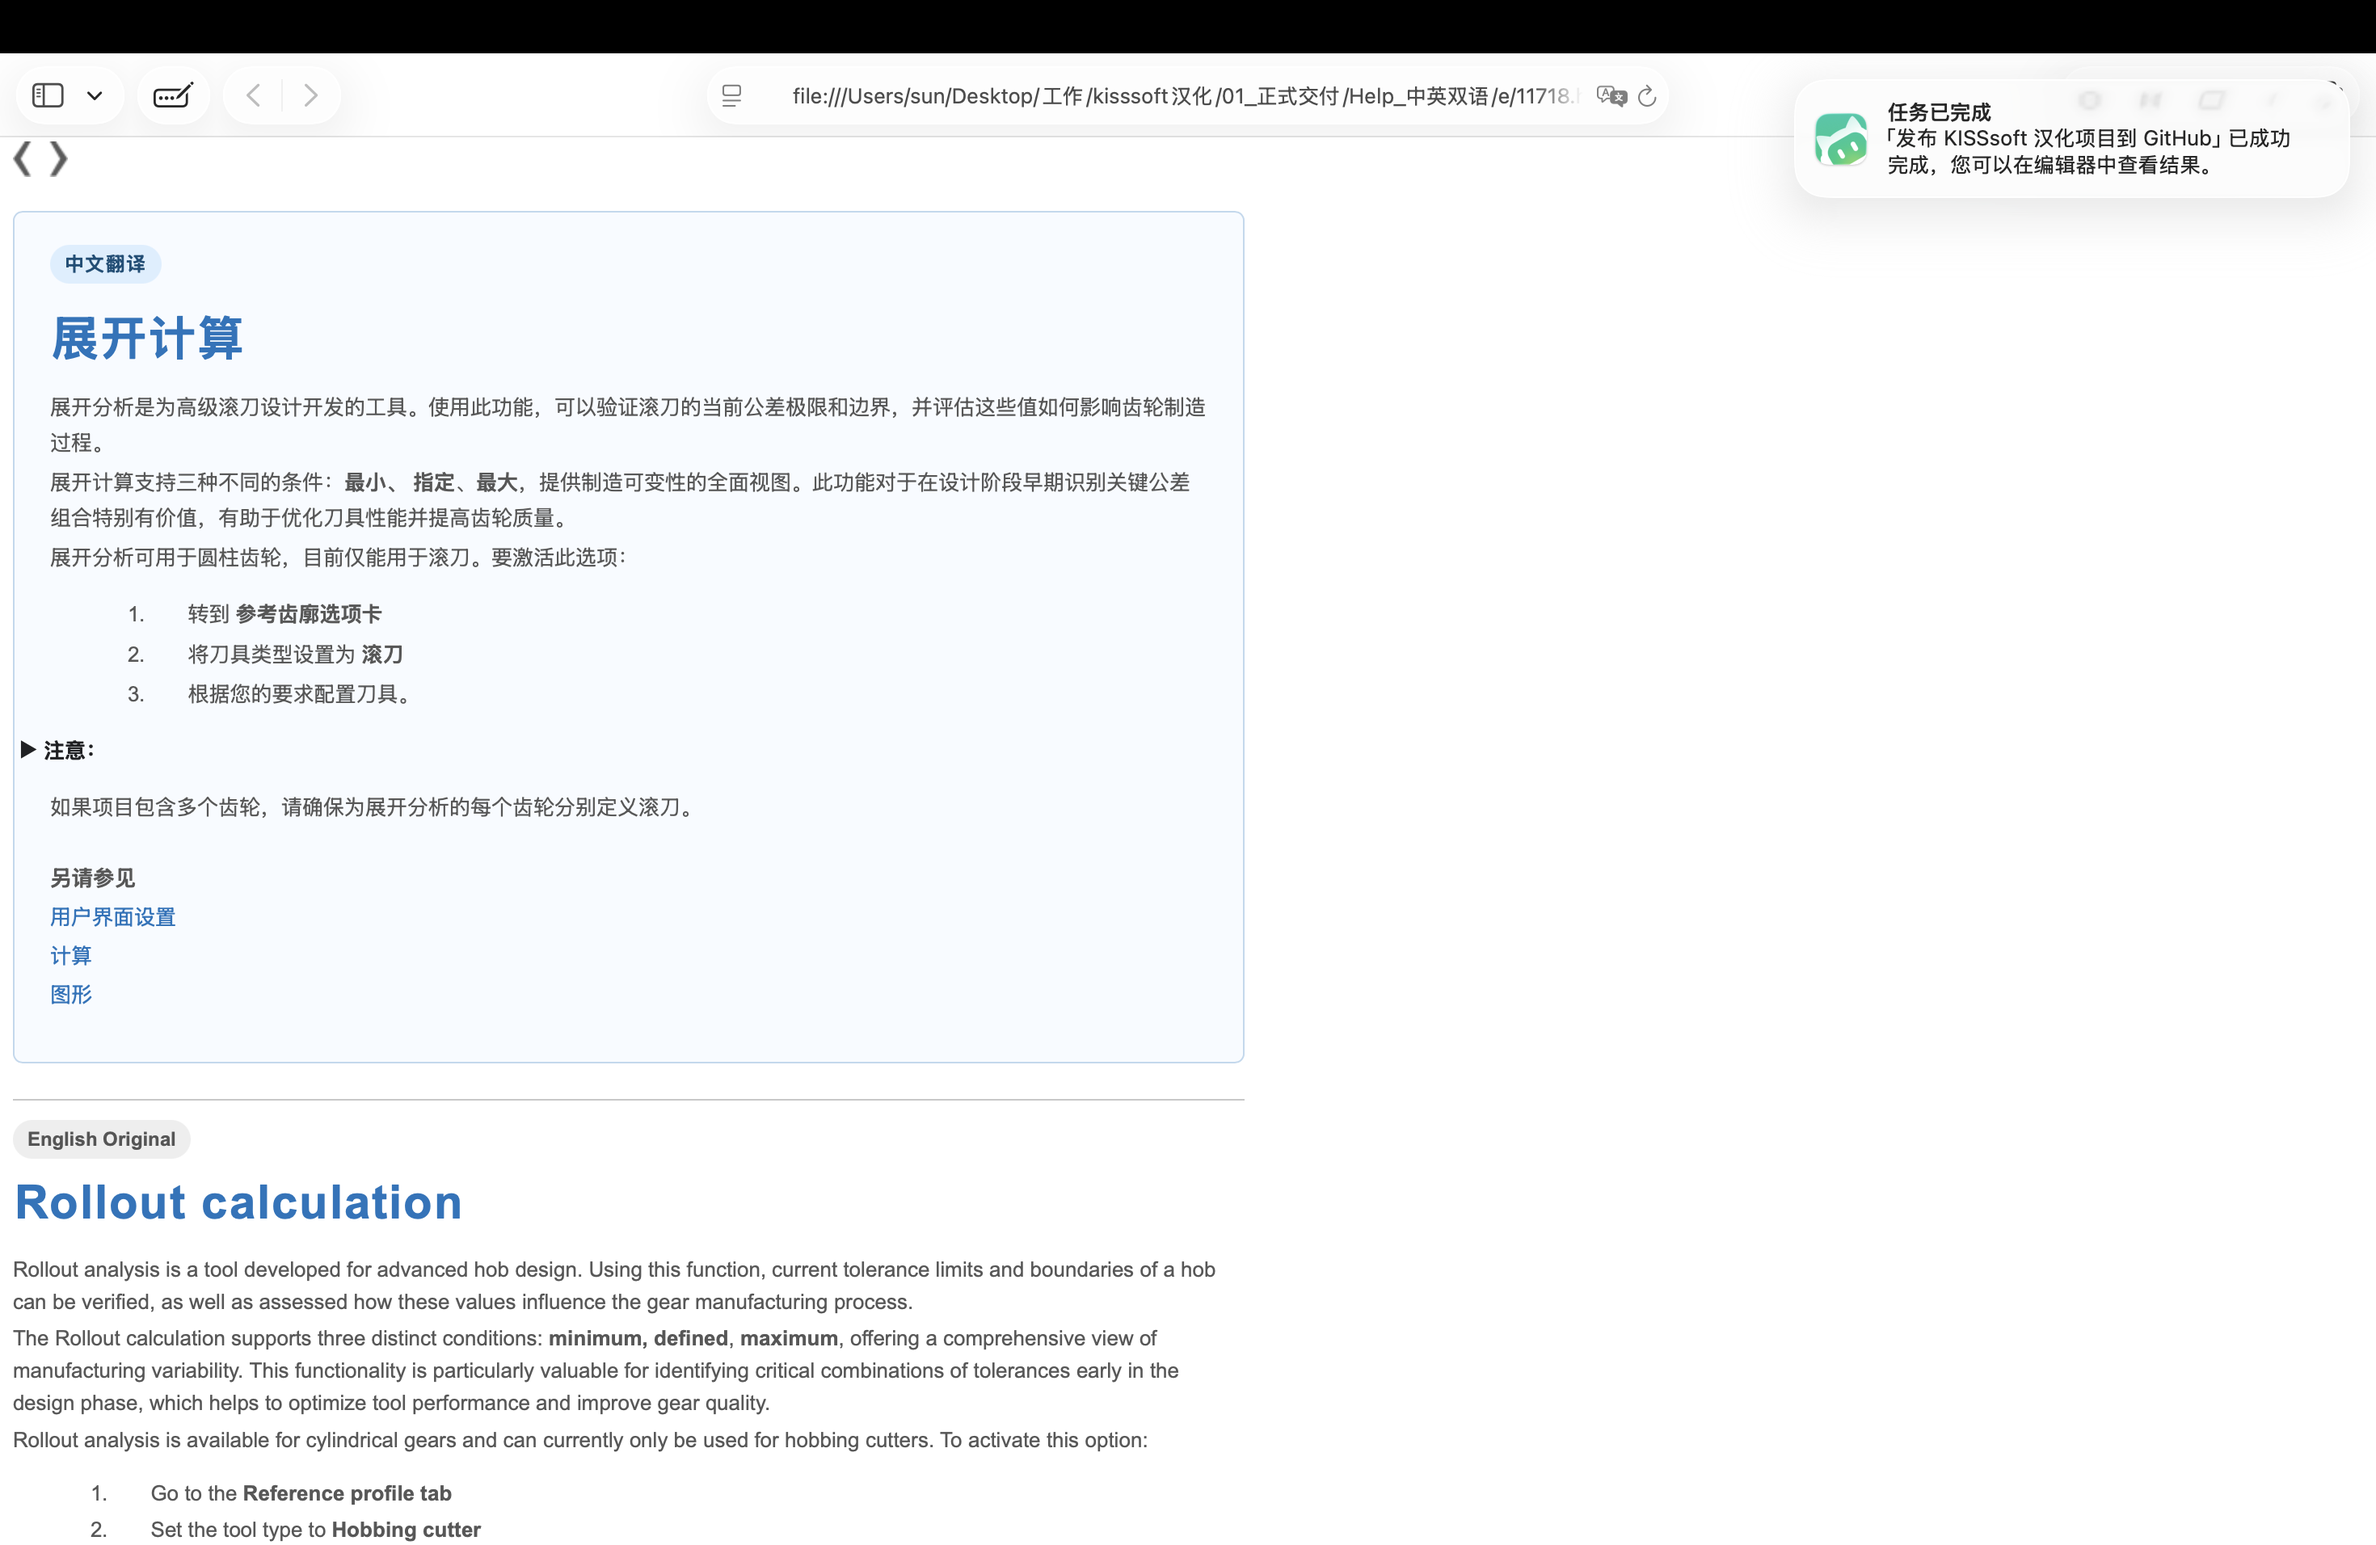
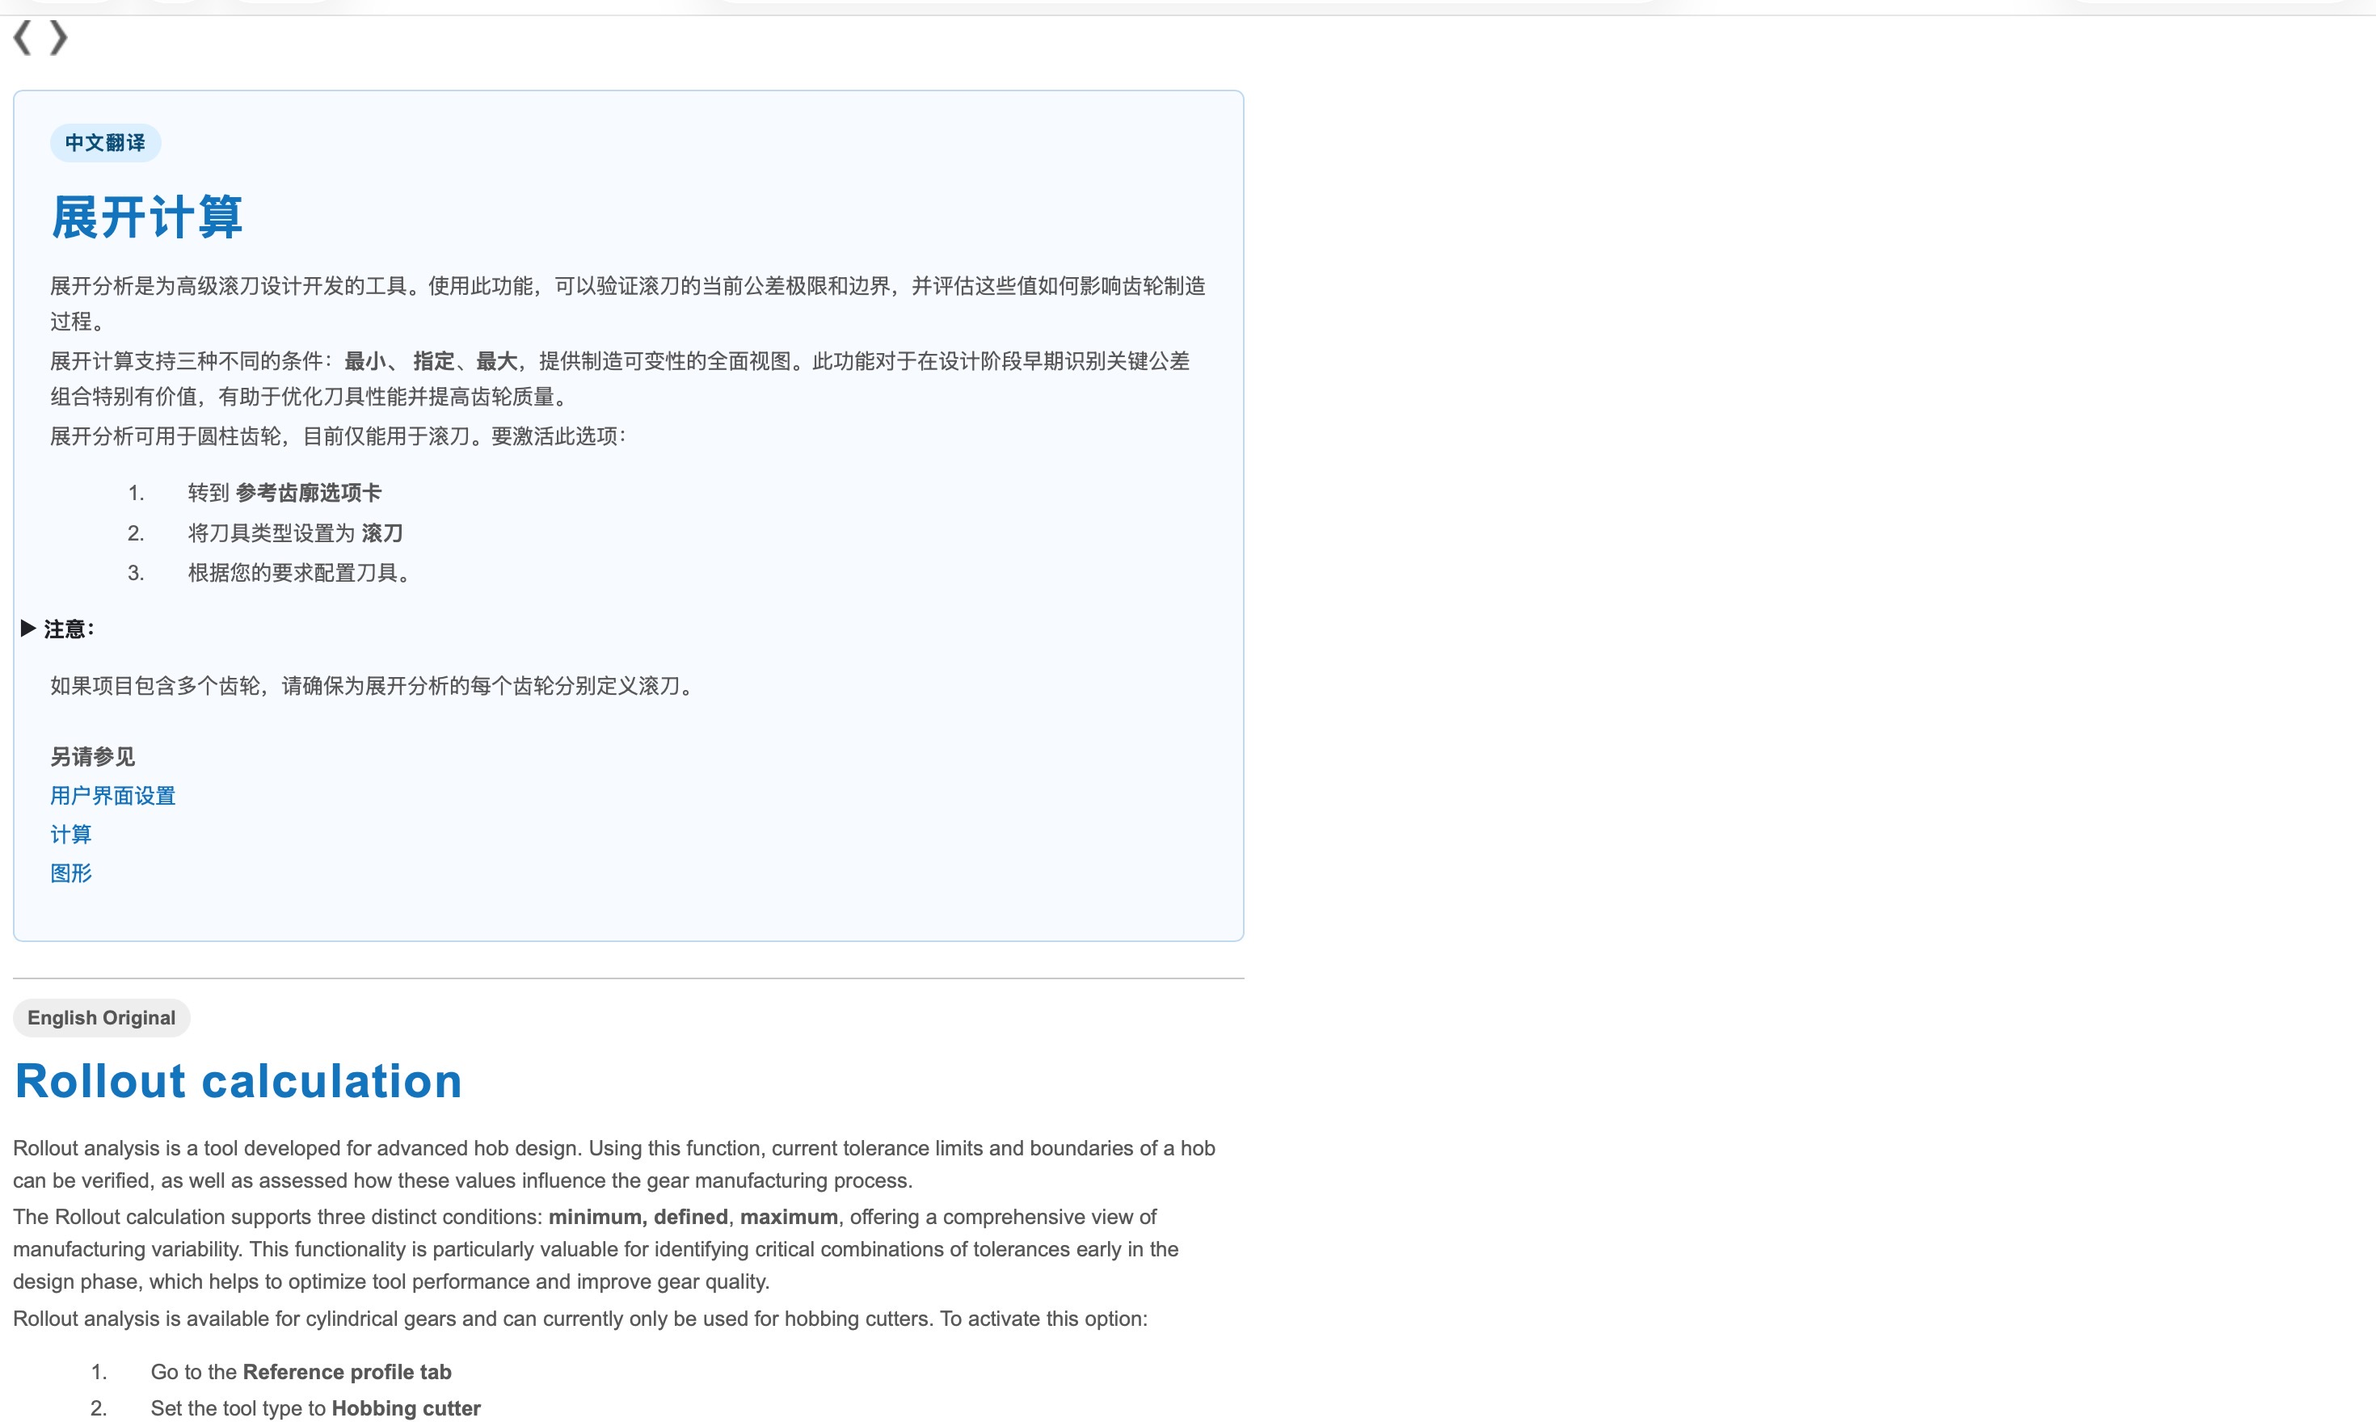
docs: use clean screenshot, streamline manual install as recommended, and simplify Windows command

Changed region(s): [[0.0, 0.0, 1.0, 0.625], [0.0, 0.6875, 0.4952, 1.0]]

diff --git a/README.md b/README.md
@@ -28,65 +28,9 @@
 
 ---
 
-## 🚀 快速使用方法
+## 🚀 使用方法
 
-### 方式一：一键命令行替换（推荐）
-
-打开终端，复制并执行以下对应系统的一键命令即可完成自动克隆、备份并替换：
-
-#### 🪟 Windows (PowerShell)
-> 请以普通用户或管理员身份打开 PowerShell 执行：
-
-```powershell
-# 1. 目标帮助文档路径
-$helpPath = "C:\Program Files\KISSsoft AG\KISSsoft 2025\help"
-
-# 2. 如果存在原英文文件夹且未备份，先自动备份为 e_backup
-if ((Test-Path "$helpPath\e") -and -not (Test-Path "$helpPath\e_backup")) {
-    Rename-Item "$helpPath\e" "$helpPath\e_backup"
-    Write-Host "已自动备份原版帮助文件夹至: $helpPath\e_backup" -ForegroundColor Green
-}
-
-# 3. 克隆汉化包并替换
-git clone https://github.com/excellent-max/KISSsoft-2025-Help-ZH.git "$env:TEMP\kisssoft_zh"
-Copy-Item -Recurse -Force "$env:TEMP\kisssoft_zh\e" "$helpPath\"
-Remove-Item -Recurse -Force "$env:TEMP\kisssoft_zh"
-Write-Host "✅ 汉化替换完成！打开 KISSsoft 按 F1 即可享受中英双语文档。" -ForegroundColor Cyan
-```
-
-#### 🪟 Windows (CMD 命令提示符)
-```cmd
-:: 1. 备份原文件夹
-ren "C:\Program Files\KISSsoft AG\KISSsoft 2025\help\e" "e_backup"
-
-:: 2. 克隆并复制替换（需已安装 Git）
-git clone https://github.com/excellent-max/KISSsoft-2025-Help-ZH.git "%TEMP%\kisssoft_zh"
-xcopy /E /I /Y "%TEMP%\kisssoft_zh\e" "C:\Program Files\KISSsoft AG\KISSsoft 2025\help\e"
-rd /S /Q "%TEMP%\kisssoft_zh"
-echo ✅ 替换完成！
-```
-
-#### 🍎 macOS (CrossOver / Wine / 虚拟机运行环境)
-> 适用于在 Mac 上使用 CrossOver/Wine 运行 KISSsoft 的用户（路径以 CrossOver 默认容器为例）：
-
-```bash
-# 替换为你的 Bottle 实际路径
-WINE_HELP_DIR="$HOME/Library/Application Support/CrossOver/Bottles/KISSsoft/drive_c/Program Files/KISSsoft AG/KISSsoft 2025/help"
-
-if [ -d "$WINE_HELP_DIR/e" ] && [ ! -d "$WINE_HELP_DIR/e_backup" ]; then
-    mv "$WINE_HELP_DIR/e" "$WINE_HELP_DIR/e_backup"
-    echo "已备份原文件夹至 e_backup"
-fi
-
-git clone https://github.com/excellent-max/KISSsoft-2025-Help-ZH.git /tmp/kisssoft_zh
-cp -R /tmp/kisssoft_zh/e "$WINE_HELP_DIR/"
-rm -rf /tmp/kisssoft_zh
-echo "✅ macOS/Wine 环境替换完成！"
-```
-
----
-
-### 方式二：手动下载复制替换
+### 方式一：手动下载复制替换（推荐）
 
 1. 点击本仓库右上角 **`Code` -> `Download ZIP`** 并解压。
 2. 打开 KISSsoft 2025 安装目录下的 `help` 文件夹：
@@ -94,8 +38,18 @@ echo "✅ macOS/Wine 环境替换完成！"
    C:\Program Files\KISSsoft AG\KISSsoft 2025\help\
    ```
 3. 将原来的 `e` 文件夹重命名为 `e_backup` 进行备份。
-4. 将解压出来的 `e` 文件夹复制到该目录下。
-5. 打开 KISSsoft 软件按 `F1` 键，即可立即调出中英双语帮助系统。
+4. 将解压出来的 `e` 文件夹直接复制到该目录下替换。
+5. 打开 KISSsoft 软件按 `F1` 键，即可立即调出完整的中英双语帮助文档。
+
+---
+
+### 方式二：Windows PowerShell 一键替换指令
+
+在 Windows 电脑上打开 **PowerShell**（按下 `Win + R` 输入 `powershell` 回车），直接粘贴并执行以下单行命令即可自动完成备份与极速替换（无需安装 Git）：
+
+```powershell
+$h="C:\Program Files\KISSsoft AG\KISSsoft 2025\help"; if(Test-Path "$h\e"){ if(!(Test-Path "$h\e_backup")){ Rename-Item "$h\e" "$h\e_backup" } }; $z="$env:TEMP\k.zip"; Invoke-WebRequest "https://github.com/excellent-max/KISSsoft-2025-Help-ZH/archive/refs/heads/main.zip" -OutFile $z; Expand-Archive $z -DestinationPath "$env:TEMP\k" -Force; Copy-Item -Recurse -Force "$env:TEMP\k\KISSsoft-2025-Help-ZH-main\e" "$h\"; Remove-Item -Recurse -Force $z, "$env:TEMP\k"; Write-Host "✅ 汉化替换成功！打开 KISSsoft 按 F1 即可生效。" -ForegroundColor Cyan
+```
 
 ---
 
